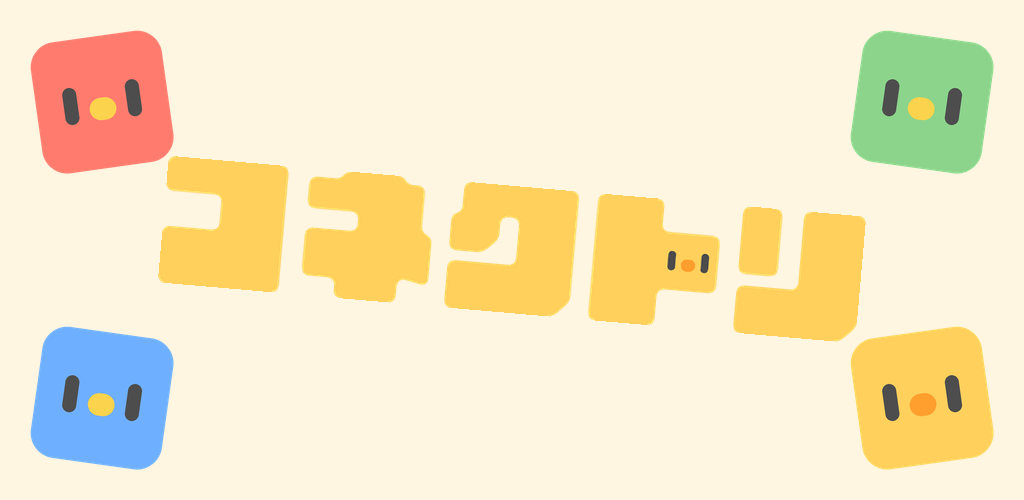
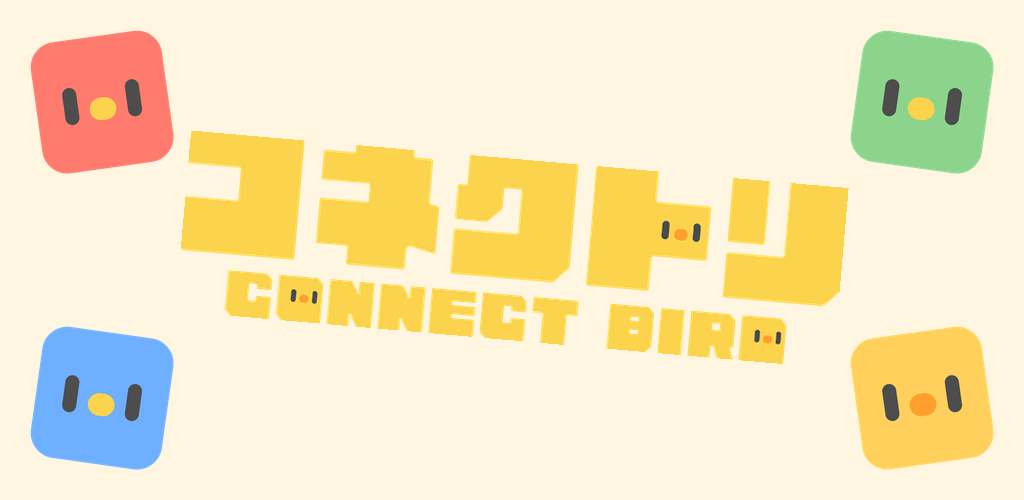
building mysite Thu Sep  3 15:27:54 JST 2026

Changed region(s): [[0.1562, 0.24, 0.8438, 0.75]]

diff --git a/connectbird/index.html b/connectbird/index.html
@@ -77,7 +77,7 @@ body{
  
 h1{line-height:0}
 .logo{
-  width:clamp(320px,84vw,580px);
+  width:clamp(300px,76vw,520px);
   height:auto;
 }
 .badges{
@@ -100,7 +100,7 @@ footer span{color:rgba(92,74,10,.4);font-weight:500}
 </head>
 <body>
 <div class="stage">
-  <h1><img class="logo" src="image/logo.png" alt="コネクトリ - CONNECT BIRD" width="1000" height="199"></h1>
+  <h1><img class="logo" src="image/logo.png" alt="コネクトリ - CONNECT BIRD" width="1000" height="290"></h1>
 
   <div class="badges">
     <a class="store" href="https://apps.apple.com/app/id6793865719" target="_blank" rel="noopener">
